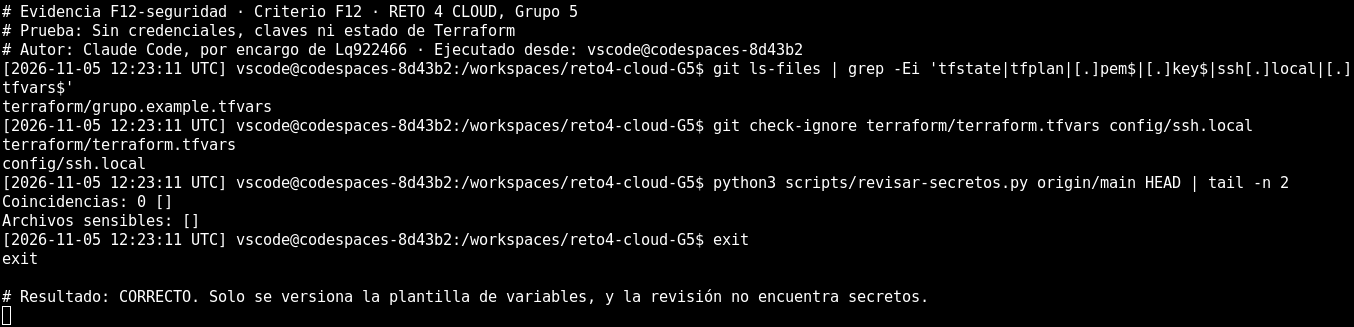
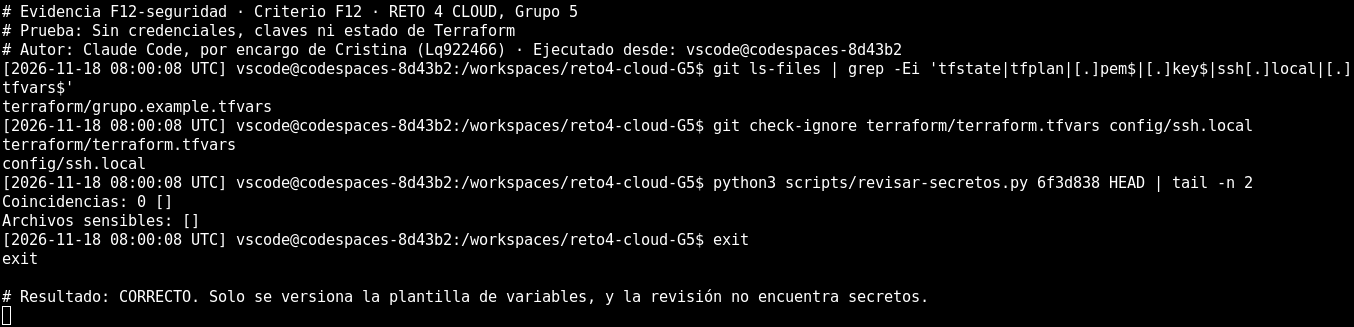
docs: regenera las capturas F1 y F12 antes de integrar en main
- F1-repositorio: repositorio privado con los cuatro integrantes y el
  profesor (jc-csl) como colaboradores.
- F12-seguridad: revisión de secretos de todo lo integrado desde 6f3d838,
  sin coincidencias.
- PROYECTO.md 0.7: resultado de la revisión de secretos del 18 de
  noviembre (rango completo, cada commit y ramas de las PR #3-#5).

Capturas locales de solo lectura, sin AWS ni SSH.

diff --git a/PROYECTO.md b/PROYECTO.md
@@ -441,19 +441,19 @@ python3 scripts/revisar-secretos.py COMMIT_BASE HEAD
 
 **Explicación.** [`revisar-secretos.py`](scripts/revisar-secretos.py) revisa las líneas añadidas entre dos commits y busca patrones de credenciales de AWS, tokens de Docker Hub y de GitHub, claves privadas, tokens de Swarm y números de cuenta. También rechaza archivos sensibles por su nombre. Antes de revisar, comprueba con muestras que su propio detector funciona. Sale con error si encuentra algo, sin mostrar el secreto.
 
-**Comprobación.** La revisión del 9 de noviembre, hecha con Codex, dio este resultado:
+**Comprobación.** La revisión se repitió el 18 de noviembre, justo antes de integrar todo en `main`:
 
-- 20 997 líneas añadidas en 380 archivos respecto a `main`: **0 coincidencias** y ningún archivo sensible.
-- 405 versiones de archivos de texto en todo el historial accesible: **ningún secreto**.
-- Las credenciales locales vigentes no aparecen en ninguna versión del historial.
+- **Todo lo que integra la PR #1** (`revisar-secretos.py 6f3d838 HEAD`): 23 302 líneas añadidas en 382 archivos, **0 coincidencias** y ningún archivo sensible.
+- **Cada uno de los 51 commits de todas las ramas**, revisado frente a su commit anterior: la única coincidencia es el número de la cuenta pública de Canonical en `owners` de `main.tf`, que identifica las imágenes oficiales de Ubuntu y no es un secreto.
+- **Ramas de las PR #3, #4 y #5:** 0 coincidencias y ningún archivo sensible.
+- **Nombres de archivo de todo el historial:** el único que coincide con los patrones sensibles es la plantilla `grupo.example.tfvars`.
+- `git check-ignore` confirma que `terraform/terraform.tfvars` y `config/ssh.local` quedan fuera de Git.
 
-**Límites.** Los 118 archivos binarios del historial, casi todos imágenes, no se revisaron de nuevo visualmente en esa comprobación. Su resultado consta en el registro de sesión de Codex; en el repositorio está la [revisión anterior del historial](evidencias/auditoria/registro-repositorio.txt).
+**Límites.** El script no revisa el contenido de las 149 imágenes. Se revisaron a la vista las capturas añadidas o regeneradas en esta revisión; la revisión anterior de todo el historial está en el [registro del repositorio](evidencias/auditoria/registro-repositorio.txt).
 
 ![Sin credenciales, claves ni estado de Terraform](evidencias/capturas-conformes/F12-seguridad.png)
 
-*Figura 7. Solo se versiona la plantilla de variables, y la revisión no encuentra secretos. Captura conforme. Claude Code, por encargo de Cristina (Lq922466). 5 de noviembre de 2026.*
-
-> **Evidencia pendiente:** repetir la captura `F12-seguridad` con la revisión de todo el historial actual, antes de integrar la PR #1.
+*Figura 7. Solo se versiona la plantilla de variables, y la revisión de todo lo integrado desde `6f3d838` no encuentra secretos. Captura conforme. Claude Code, por encargo de Cristina (Lq922466). 18 de noviembre de 2026. Máquina: codespaces-8d43b2.*
 
 ### 0.8. Capturas conformes a la norma de la Guía
 

diff --git a/evidencias/capturas-conformes/INDICE.md b/evidencias/capturas-conformes/INDICE.md
@@ -30,8 +30,8 @@ El resultado se calcula comprobando la salida real. Junto a cada imagen hay un `
 | [D2-servicio](D2-servicio.png) | D2 | Servicio de cuatro réplicas | CORRECTO: El servicio tiene cuatro réplicas, la red del grupo y política de reinicio. | Claude Code, por encargo de Lq922466 | 2026-11-06 11:01:00 |
 | [E1-balanceo](E1-balanceo.png) | E1 | Balanceo de carga | CORRECTO: Las peticiones por las cuatro IP reciben respuesta de contenedores distintos. | Claude Code, por encargo de Lq922466 | 2026-11-06 10:31:05 |
 | [E5-estado](E5-estado.png) | E5 | Nodos y servicio tras el reinicio del laboratorio | CORRECTO: Tras reiniciar el laboratorio, las mismas instancias siguen en el clúster con 4/4. | Claude Code, por encargo de Lq922466 | 2026-11-06 11:01:02 |
-| [F1-repositorio](F1-repositorio.png) | F1 | Repositorio privado y cuentas con acceso | CORRECTO: El repositorio es privado. Solo muestra las cuentas con acceso: falta confirmar integrantes y profesor. | Claude Code, por encargo de Lq922466 | 2026-11-05 12:28:32 |
-| [F12-seguridad](F12-seguridad.png) | F12 | Sin credenciales, claves ni estado de Terraform | CORRECTO: Solo se versiona la plantilla de variables, y la revisión no encuentra secretos. | Claude Code, por encargo de Lq922466 | 2026-11-05 12:23:11 |
+| [F1-repositorio](F1-repositorio.png) | F1 | Repositorio privado y cuentas con acceso | CORRECTO: El repositorio es privado y tienen acceso los cuatro integrantes y el profesor (jc-csl). Falta la vista web de Settings. | Claude Code, por encargo de Cristina (Lq922466) | 2026-11-18 08:00:05 |
+| [F12-seguridad](F12-seguridad.png) | F12 | Sin credenciales, claves ni estado de Terraform | CORRECTO: Solo se versiona la plantilla de variables, y la revisión no encuentra secretos. | Claude Code, por encargo de Cristina (Lq922466) | 2026-11-18 08:00:08 |
 | [F2-historial](F2-historial.png) | F2 | Historial de commits y PR | CORRECTO: Muestra los autores reales: aún faltan commits y PR de los demás integrantes. | Claude Code, por encargo de Lq922466 | 2026-11-05 12:28:34 |
 | [F4-estructura](F4-estructura.png) | F4 | Estructura del repositorio | CORRECTO: Existen las carpetas pedidas en la rama de implementación. | Claude Code, por encargo de Lq922466 | 2026-11-05 12:22:37 |
 | [F5-entorno](F5-entorno.png) | F5 | Codespace aprovisionado con AWS CLI y Terraform | CORRECTO: El devcontainer incluye AWS CLI y Terraform, y ambos funcionan en el Codespace. | Claude Code, por encargo de Lq922466 | 2026-11-05 12:22:35 |
